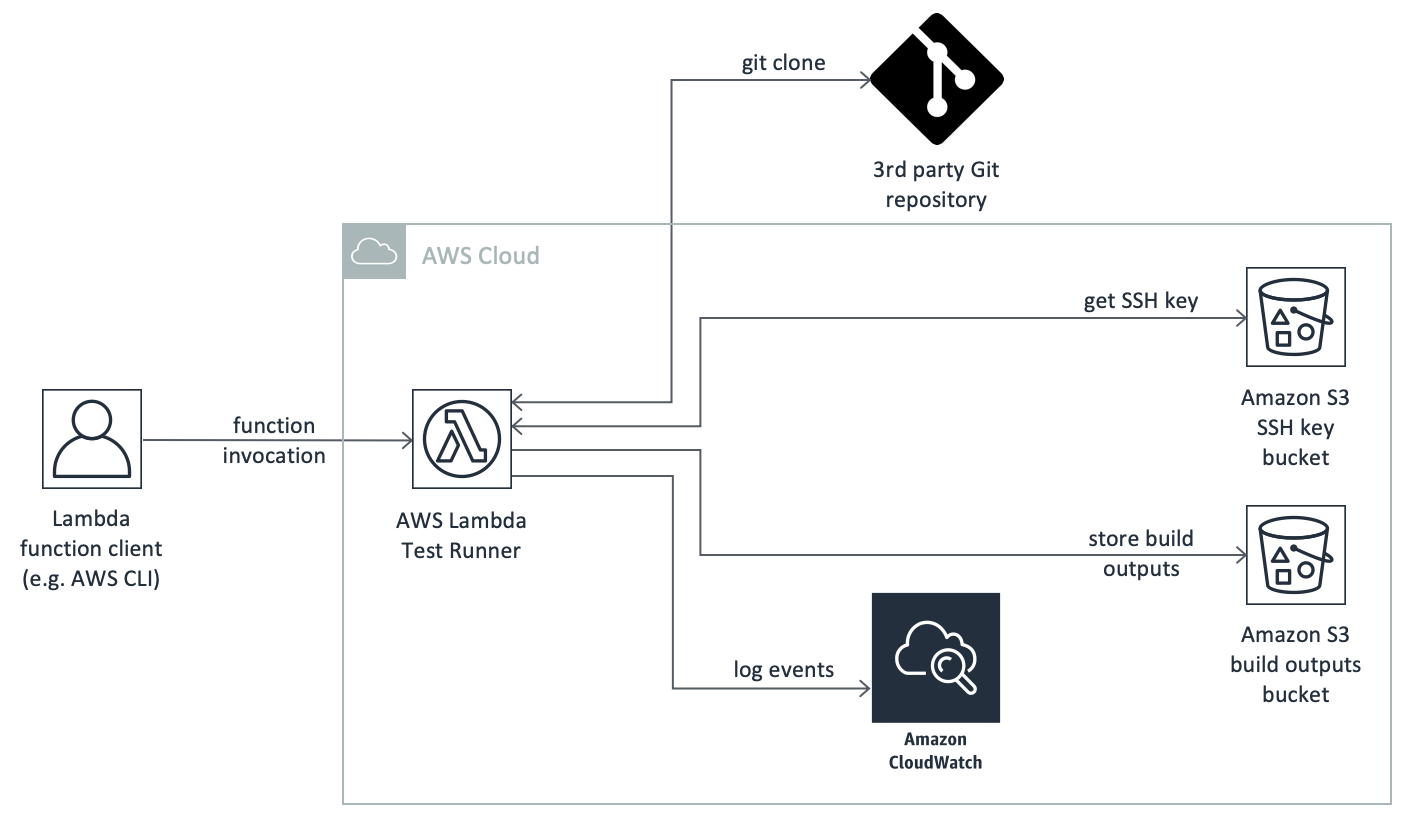
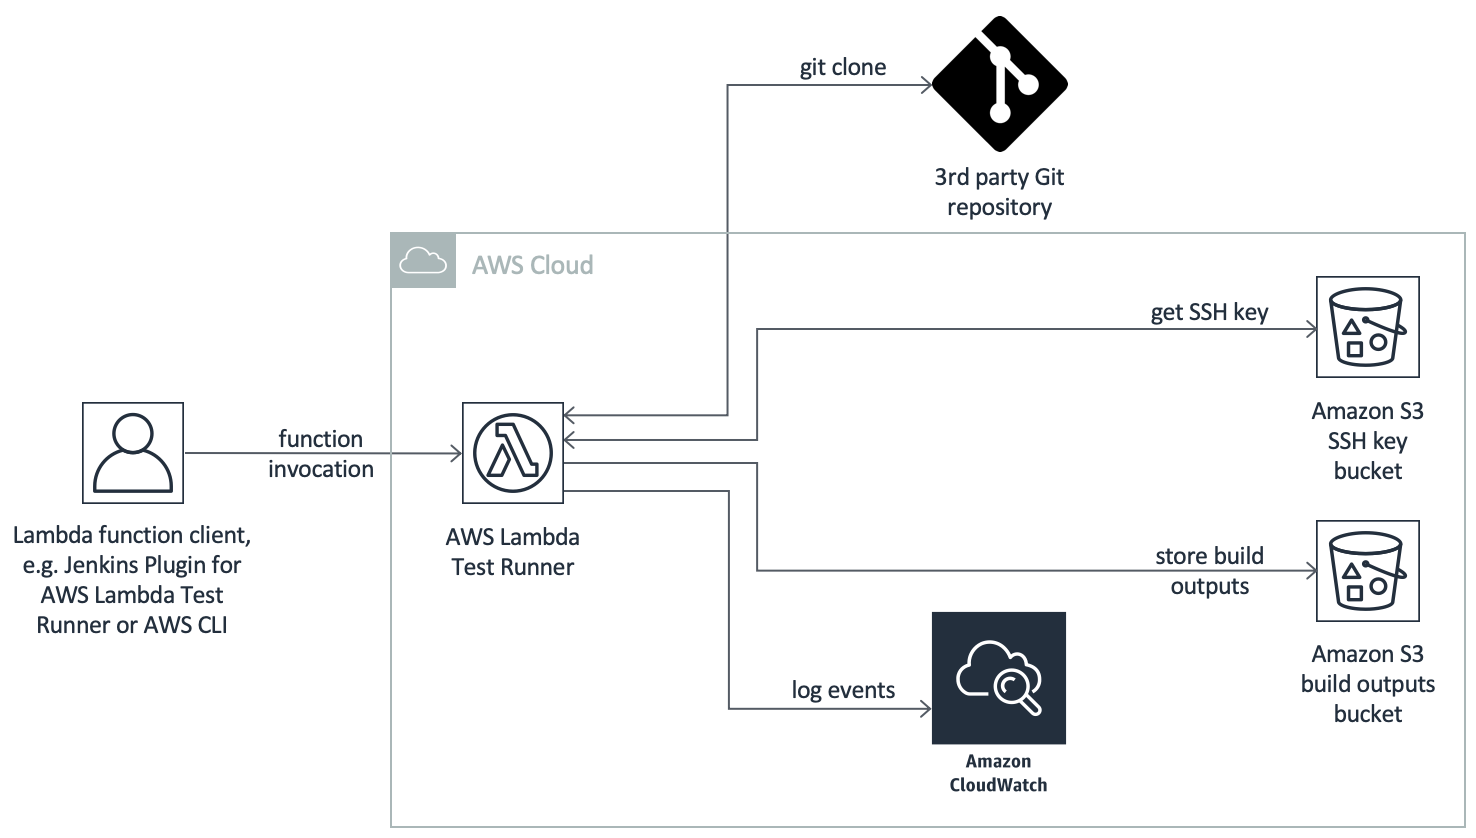
Update diagram

diff --git a/README.md b/README.md
@@ -58,7 +58,7 @@ AWS Lambda Test Runner will:
 
 This is the big picture:
 
-<img src="img/aws-lambda-test-runner-architecture.png" width="700" height="407"/>
+<img src="img/aws-lambda-test-runner-architecture.png" width="738" height="419"/>
 
 ## How to deploy it
 
